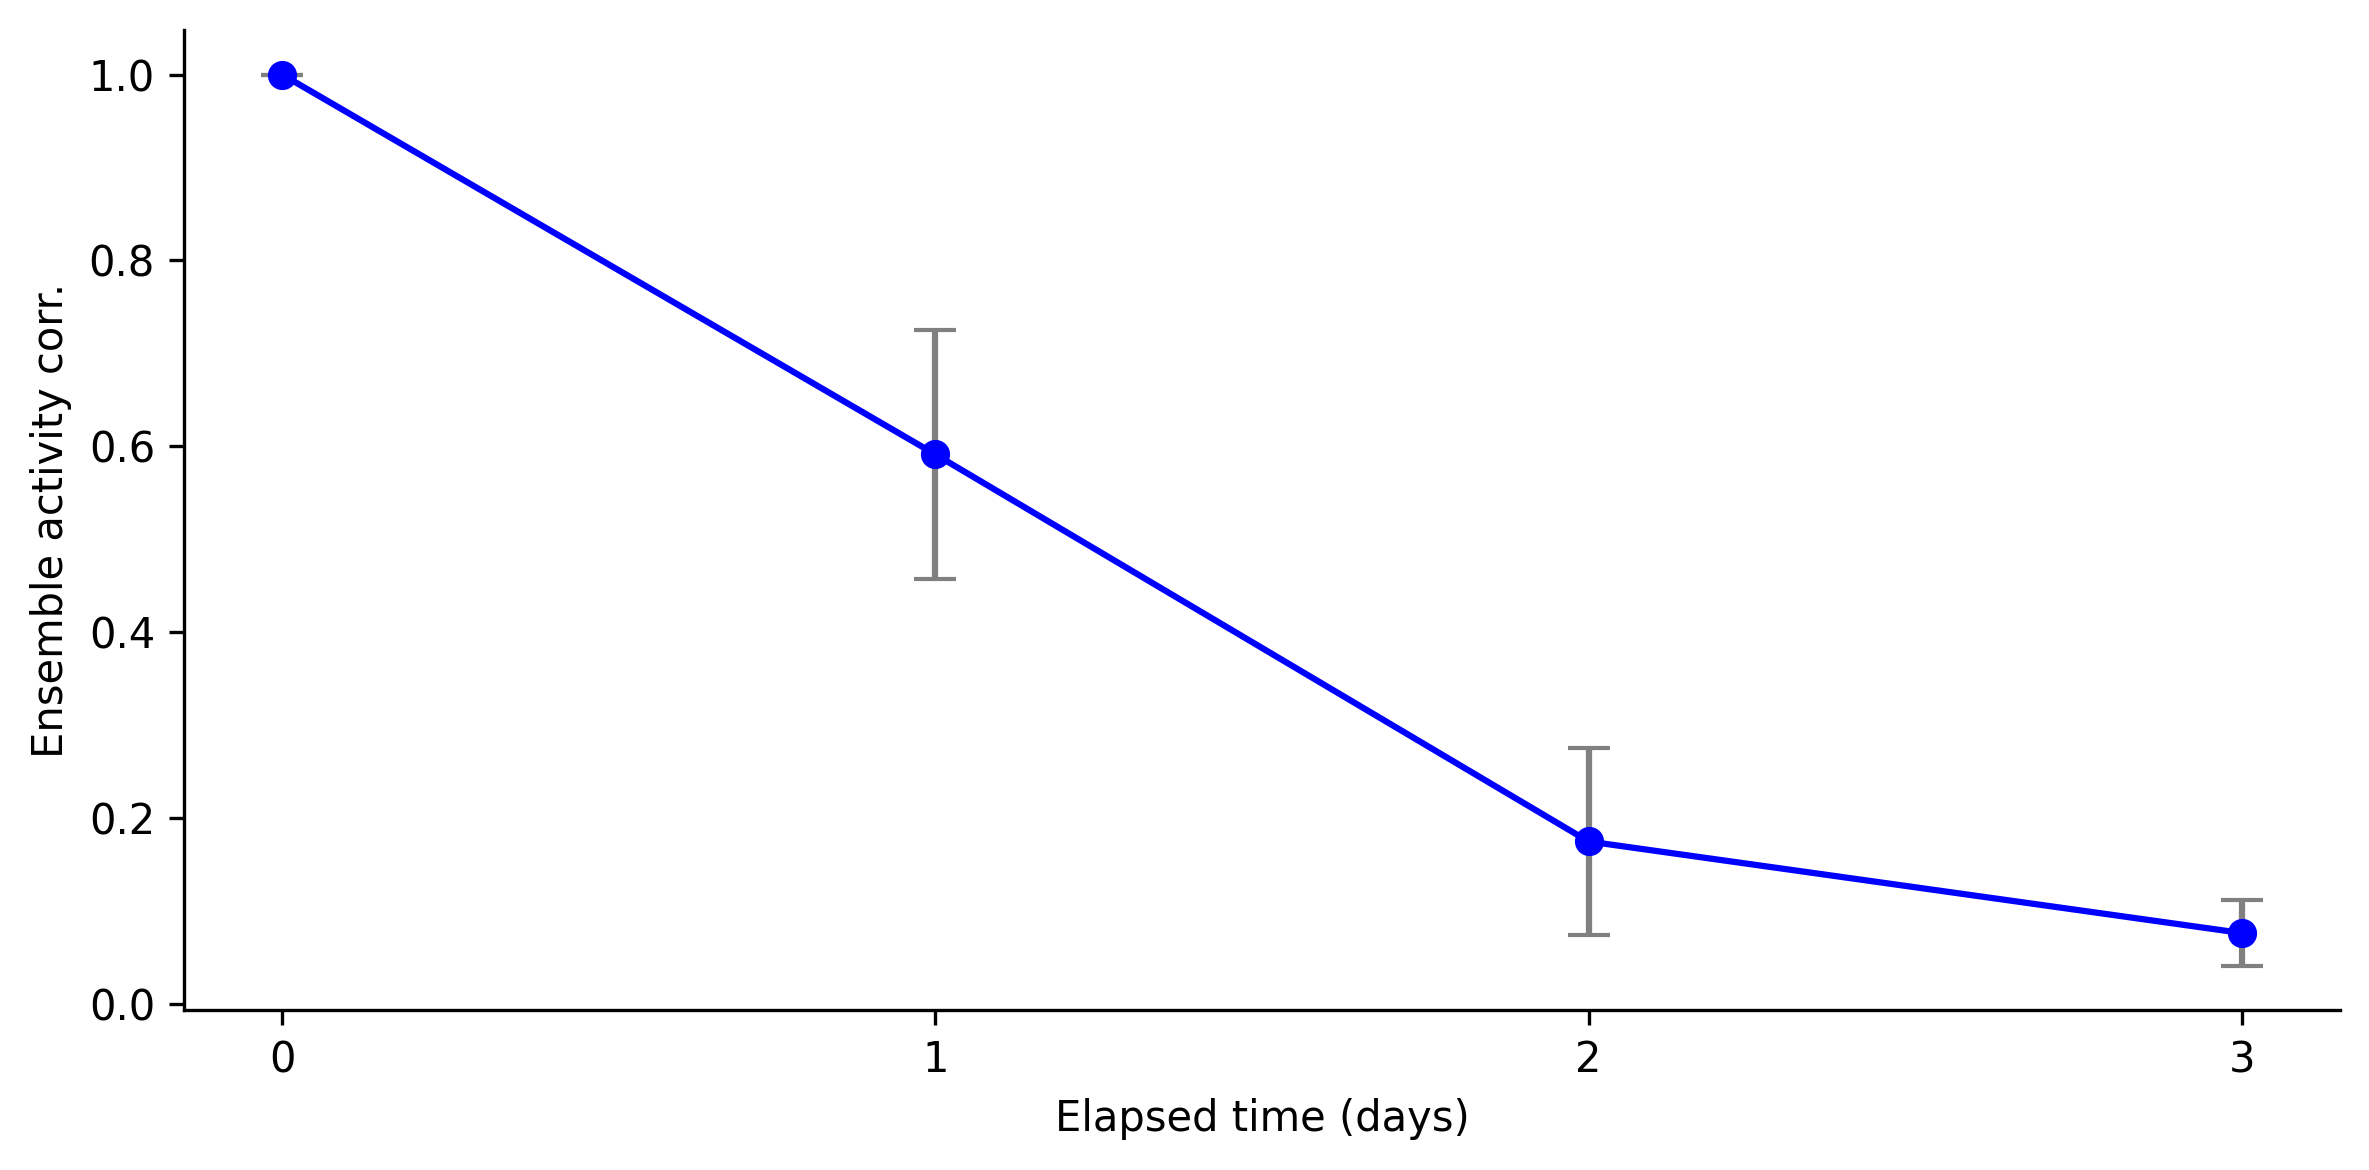
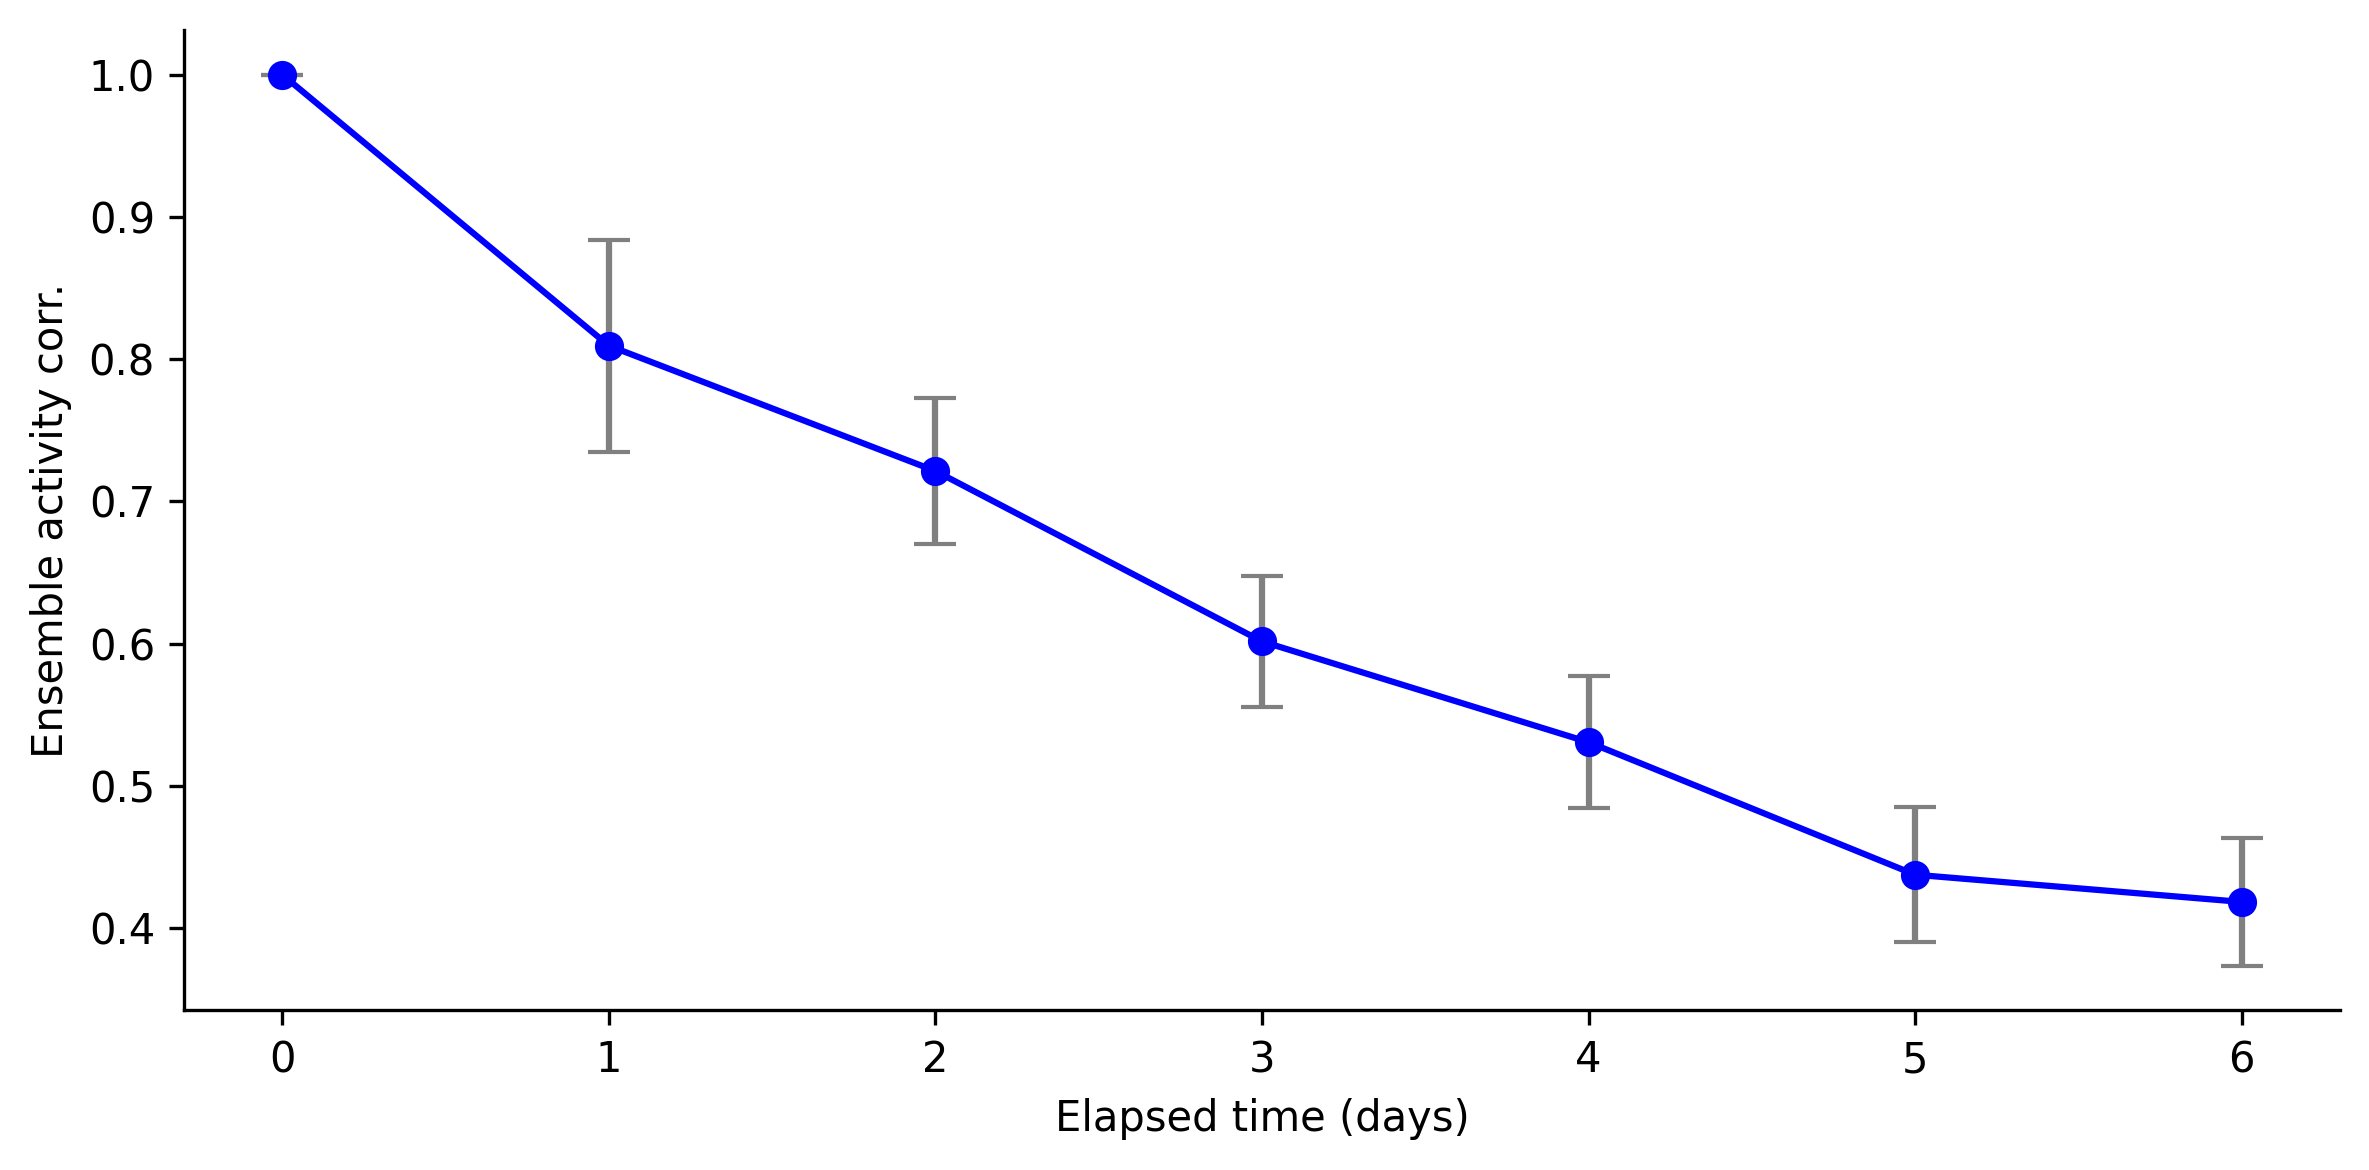
Minor updates to the drify rep simulation. Added two (E and I) populations for conrtex with slower learning rates.

diff --git a/HPC_ANArchy.py b/HPC_ANArchy.py
@@ -1,33 +1,36 @@
 import ANNarchy as ann
 import matplotlib.pyplot as plt
 import numpy as np
-import os
-from plaotting_widget import before_after_weights, plot_activity
-
+# import os
+from plotting_widget import before_after_weights, plot_activity,plot_activity_n_excitability_time
+from Utilities import generate_random_pattern
 HPC_LIneuron = ann.Neuron(
     parameters = dict(
-        tau = 10.0,
+        tau = 50.0,
         baseline = 0,
         I_ext = ann.Parameter(0.1),
-        excitabilty = 1.0,
+        excitability = 0.0,
     ),
     equations = [
-        'tau * dr/dt  + r = baseline + tanh(sum(exc) + sum(inh) + I_ext)'
+        'tau * dr/dt  + r = baseline + tanh(sum(target) + I_ext + excitability)'
     ]
 ) 
 
-HPC_E_synapse = ann.Synapse(
+E_synapse = ann.Synapse(
     parameters = dict(
         tau = 1,
         lr_e = 0.004,
         dr_e = ann.Parameter(0),
+        min_w = 0.0,
+        max_w = 10.0
     ),
     equations = [
-        'tau * dw/dt = -w * dr_e + lr_e*pre.r * post.r',
+        'tau * dw/dt = -w * dr_e + lr_e*pre.r * post.r : min = min_w, max = max_w',
     ]
 )
 
-HPC_I_synapse = ann.Synapse(
+
+I_synapse = ann.Synapse(
     parameters = dict(
         tau = 1,
         lr_i = 0.004,
@@ -40,60 +43,134 @@ HPC_I_synapse = ann.Synapse(
 
 NonPlastic_Synapse = ann.Synapse()
 
-# defining number of neurons in the networ
+# defining some params
+FAST_LR_E = 4e-3
+SLOW_LR_E = 4e-4
+
+
+
+# defining number of neurons in the network 
 num_HPC_E_neuron = 40
 num_HPC_I_neuron = 40
 
+num_CTX_E_neuron = 40
+num_CTX_I_neuron = 40
+
 # defining the network with excitatory and inhibitory populations
-HPC_network = ann.Network()
-HPC_E_pop = HPC_network.create(geometry=num_HPC_E_neuron, neuron=HPC_LIneuron, name='HPC_E_pop')
-HPC_I_pop = HPC_network.create(geometry=num_HPC_I_neuron, neuron=HPC_LIneuron, name='HPC_I_pop')
+Can_network = ann.Network()
+# HPC pops
+HPC_E_pop = Can_network.create(geometry=num_HPC_E_neuron, neuron=HPC_LIneuron, name='HPC_E_pop')
+HPC_I_pop = Can_network.create(geometry=num_HPC_I_neuron, neuron=HPC_LIneuron, name='HPC_I_pop')
 
-# dfining the synapses between excitatory and inhibitory populations, (EE, EI, IE, II), plastic are  EE, EI and II. considering II as static
-EE_proj = HPC_network.connect(HPC_E_pop,HPC_E_pop,'exc',HPC_E_synapse)
-EE_proj.connect_all_to_all(weights=0.0)
+# CTX pops
+CTX_E_pop = Can_network.create(geometry=num_CTX_E_neuron, neuron=HPC_LIneuron, name='CTX_E_pop')
+CTX_I_pop = Can_network.create(geometry=num_CTX_I_neuron, neuron=HPC_LIneuron, name='CTX_I_pop')
 
-EI_proj = HPC_network.connect(HPC_E_pop,HPC_I_pop,'exc',HPC_E_synapse)
-EI_proj.connect_all_to_all(weights=0.0)
+# defining the synapses between excitatory and inhibitory populations, (EE, EI, IE, II), plastic are  EE, EI and II. considering II as static
 
-IE_proj = HPC_network.connect(HPC_I_pop,HPC_E_pop,'inh',HPC_I_synapse)
-IE_proj.connect_all_to_all(weights=0.0)
+## HPC connections network Rec connections
 
-II_proj = HPC_network.connect(HPC_I_pop,HPC_I_pop,'inh',NonPlastic_Synapse)
-II_proj.connect_all_to_all(weights=-0.1)  # Uncomment if you want to initialize II_proj weights
-
-
-HPC_E_pop[:10].I_ext = np.array([1,-1,1,1,-1,-1,-1,1,1,1] ) # Set external input for first 10 neurons
-HPC_I_pop[:10].I_ext = 0.5*np.array([1,-1,1,1,-1,-1,-1,1,1,1])
+# according to complementary learning system (CLS), HPC is a fast learner for episodic memories
+HPC_EE_proj = Can_network.connect(HPC_E_pop,HPC_E_pop,'exc',E_synapse)
+HPC_EE_proj.connect_all_to_all(weights=0.0, allow_self_connections=True)  # Uncomment if you want to initialize HPC_EE_proj weights
 
 
-HPC_network.compile(clean=True)
+HPC_EI_proj = Can_network.connect(HPC_E_pop,HPC_I_pop,'exc',E_synapse)
+HPC_EI_proj.connect_all_to_all(weights=0.0)
+
+HPC_IE_proj = Can_network.connect(HPC_I_pop,HPC_E_pop,'inh',I_synapse)
+HPC_IE_proj.connect_all_to_all(weights=-0.1, allow_self_connections=True)
+
+HPC_II_proj = Can_network.connect(HPC_I_pop,HPC_I_pop,'inh',NonPlastic_Synapse)
+HPC_II_proj.connect_all_to_all(weights=-0.1, allow_self_connections=True)  # Uncomment if you want to initialize HPC_II_proj weights
 
 
-EE_initial_weights = EE_proj.connectivity_matrix()
-EI_initial_weights = EI_proj.connectivity_matrix()
-IE_initial_weights = IE_proj.connectivity_matrix()
-II_initial_weights = II_proj.connectivity_matrix()
+## CTX connections network Rec connections
+CTX_EE_proj = Can_network.connect(CTX_E_pop,CTX_E_pop,'exc',E_synapse)
+CTX_EE_proj.connect_all_to_all(weights=0.0, allow_self_connections=True)  # Uncomment if you want to initialize HPC_EE_proj weights
 
 
-HPC_E_act_monitor = HPC_network.monitor(HPC_E_pop,'r')
-HPC_I_act_monitor = HPC_network.monitor(HPC_I_pop,'r') 
-# w = HPC_network.monitor(EE_proj,'w')
+CTX_EI_proj = Can_network.connect(CTX_E_pop,CTX_I_pop,'exc',E_synapse)
+CTX_EI_proj.connect_all_to_all(weights=0.0)
 
-HPC_network.config(dt=0.01)
-HPC_network.simulate(10)
+CTX_IE_proj = Can_network.connect(CTX_I_pop,CTX_E_pop,'inh',I_synapse)
+CTX_IE_proj.connect_all_to_all(weights=-0.1, allow_self_connections=True)
+
+CTX_II_proj = Can_network.connect(CTX_I_pop,CTX_I_pop,'inh',NonPlastic_Synapse)
+CTX_II_proj.connect_all_to_all(weights=-0.1, allow_self_connections=True)  # Uncomment if you want to initialize HPC_II_proj weights
+
+
+
+# need to define input for each of the neurons in the population
+input_current = np.zeros(num_HPC_E_neuron)
+
+Can_network.compile(clean=True)
+
+# # according to complementary learning system (CLS) CTX is a slow learner but better at generalizing 
+# Hence need to change the learning rates for these synapses
+CTX_EE_proj.lr_e = SLOW_LR_E
+CTX_IE_proj.lr_i = SLOW_LR_E
+CTX_EI_proj.lr_e = SLOW_LR_E
+
+# Simulation
+# step 1: a burn in period of 10 time steps
+# step 2: Encoding single stimulus
+# step 3: rounds of consolidation (awake + sleep cycles?)
+# step 4: recall
+PAT_LEN = 10
+PATTERN_A = np.concat((generate_random_pattern(PAT_LEN),np.zeros(num_HPC_E_neuron-PAT_LEN)))
+breakpoint()
+HPC_E_pop[:].I_ext =  PATTERN_A# Set external input for first 10 neurons
+HPC_I_pop[:].I_ext = 0.5 * PATTERN_A
+CTX_E_pop[:].I_ext = PATTERN_A
+ 
+# variables to store weights 
+HPC_EE_W = []
+HPC_EI_W = []
+HPC_IE_W = []
+HPC_II_W = []
+
+CTX_EE_W = []
+CTX_EI_W = []
+CTX_IE_W = []
+CTX_II_W = []
+
+# setting up monitors to record the firing rates
+HPC_E_act_monitor = Can_network.monitor(HPC_E_pop,'r')
+HPC_I_act_monitor = Can_network.monitor(HPC_I_pop,'r') 
+CTX_E_act_monitor = Can_network.monitor(HPC_E_pop,'r')
+CTX_I_act_monitor = Can_network.monitor(HPC_I_pop,'r') 
+
+# w = Can_network.monitor(HPC_EE_proj,'w')
+
+Can_network.config(dt=0.01)
+Can_network.simulate(10)
 # breakpoint()
 
-EE_final_weights = EE_proj.connectivity_matrix()
-EI_final_weights = EI_proj.connectivity_matrix()
-IE_final_weights = IE_proj.connectivity_matrix()
-II_final_weights = II_proj.connectivity_matrix()
+HPC_EE_W.append(HPC_EE_proj.connectivity_matrix())
+HPC_EI_W.append(HPC_EI_proj.connectivity_matrix())
+HPC_IE_W.append(HPC_IE_proj.connectivity_matrix())
+HPC_II_W.append(HPC_II_proj.connectivity_matrix())
 
 
-plot_activity(HPC_E_act_monitor,'r',"HPC netowrk excitatory neuron activity", "./plots/HPC_E_activity.png")
-plot_activity(HPC_I_act_monitor,'r',"HPC netowrk inhibitory neuron activity", "./plots/HPC_E_activity.png")
+CTX_EE_W.append(CTX_EE_proj.connectivity_matrix())
+CTX_EI_W.append(CTX_EI_proj.connectivity_matrix())
+CTX_IE_W.append(CTX_IE_proj.connectivity_matrix())
+CTX_II_W.append(CTX_II_proj.connectivity_matrix())
 
-before_after_weights(EE_initial_weights, EE_final_weights, "Initial W_{EE}" ,"Final W_{EE}" ,"./plots/HPC_EE_weights.png")
-before_after_weights(EI_initial_weights, EI_final_weights, "Initial W_{EI}" ,"Final W_{EI}" ,"./plots/HPC_EI_weights.png")
-before_after_weights(IE_initial_weights, IE_final_weights, "Initial W_{IE}" ,"Final W_{IE}" ,"./plots/HPC_IE_weights.png")
-before_after_weights(II_initial_weights, II_final_weights, "Initial W_{II}" ,"Final W_{II}" ,"./plots/HPC_II_weights.png")
+HPC_e_Act = HPC_E_act_monitor.get('r')
+HPC_i_Act = HPC_I_act_monitor.get('r')
+
+CTX_e_Act = CTX_E_act_monitor.get('r')
+CTX_i_Act = CTX_I_act_monitor.get('r')
+
+plot_activity_n_excitability_time([HPC_e_Act,CTX_e_Act],["HPC E F.R.","CTX E F.R."],fname="./plots/Sys_cons/E_activities.png",cmaps=['Blues', 'Greens'])
+plot_activity_n_excitability_time([HPC_i_Act,CTX_i_Act],["HPC I F.R.","CTX E I.R."],fname="./plots/Sys_cons/I_activities.png",cmaps=['Blues', 'Greens'])
+
+# plot_activity(hpc_e_Act,"","HPC netowrk excitatory neuron activity", "./plots/HPC_E_activity.png",c='red')
+# plot_activity(hpc_i_Act,"","HPC netowrk inhibitory neuron activity", "./plots/HPC_E_activity.png",c='blue')
+
+# before_after_weights(EE_initial_weights, HPC_EE_W, "Initial W_{EE}" ,"Final W_{EE}" ,"./plots/HPC_EE_weights.png")
+# before_after_weights(EI_initial_weights, HPC_EI_W, "Initial W_{EI}" ,"Final W_{EI}" ,"./plots/HPC_EI_weights.png")
+# before_after_weights(IE_initial_weights, HPC_IE_W, "Initial W_{IE}" ,"Final W_{IE}" ,"./plots/HPC_IE_weights.png")
+# before_after_weights(II_initial_weights, HPC_II_W, "Initial W_{II}" ,"Final W_{II}" ,"./plots/HPC_II_weights.png")

diff --git a/Get_Drifty.py b/Get_Drifty.py
@@ -1,7 +1,7 @@
 import ANNarchy as ann
 import matplotlib.pyplot as plt
 import numpy as np
-from plaotting_widget import plot_activity_n_excitability_time,plot_weights_over_time,plot_row_correlations,plot_consecutive_day_correlation
+from plotting_widget import plot_activity_n_excitability_time,plot_weights_over_time,plot_row_correlations,plot_consecutive_day_correlation
 
 
 LIneuron = ann.Neuron(
@@ -27,17 +27,18 @@ LIneuron = ann.Neuron(
 E_synapse = ann.Synapse(
     parameters = dict(
         tau_w = 1000,
+        lr = 1,
         tau_decay = 1000,
         max_weight = 0.4,
         min_weight = 0.0,
     ),
     equations = [
-        'dw/dt = ((pre.r * post.r)/tau_w - w/tau_decay) : min = min_weight, max = max_weight'
+        'dw/dt = (lr*(pre.r * post.r)/tau_w - w/tau_decay) : min = min_weight, max = max_weight'
         # 'Bounded(x) = np.clip(x, 0, 1)'
     ]
 )
 
-num_HPC_E_neuron = 50
+num_HPC_E_neuron = 70
 
 net = ann.Network()
 E_pop = net.create(geometry=num_HPC_E_neuron, neuron=LIneuron, name='E_pop')
@@ -51,18 +52,18 @@ net.compile(clean=True)
 
 # Simulation parameters
 Nrep = 10 # number of repetitions
-T = 100 # duration of repetitions
+T = 200 # duration of repetitions
 IR = 100 # Inter-repetition interval
 del_t = 1 # time step
 
 
-num_days = 4 # number of days in the simulation
+num_days = 7 # number of days in the simulation
 ID = 1000 #inter-day delay
 
-delta = 35 # input current
+delta = 50 # input current
 theta = 5 #threshold firing rate for active neurons
 c = 1 #cap pn recurrent weights
-E = 3 # excitability increase factor for neurons
+E = 2 # excitability increase factor for neurons
 thr = 1
 # normal distribution parameters for excitability
 mu = 0
@@ -78,6 +79,7 @@ weights = []
 # weights.append(EE_proj.connectivity_matrix())
 net.simulate(ID//2)
 # E_pop[:].excitabilty = np.array([0]*num_HPC_E_neuron)
+np.random.seed(2025)
 orig_exitability = np.abs(np.random.uniform(mu, sigma, num_HPC_E_neuron))
 np.random.seed(2)
 E_pop[:].excitabilty = orig_exitability
@@ -87,14 +89,18 @@ for i in range(num_days):
     for j in range(Nrep):
         seed = j
         # setting a random seed
-        np.random.default_rng(j)
+        # np.random.default_rng(j)
         # stim_phase 
         # input is set for all neurons in the population
         E_pop[:].input_i = np.array(num_HPC_E_neuron*[delta])
         # exitability is drawn from a uniform distri
         # now based on day the exicitability is increased by a factor of E for some neurons
         E_pop[:].excitabilty = orig_exitability
-        E_pop[(i+1)*10:(i+1)*10+10].excitabilty += E
+        E_pop[(i)*10:(i)*10+10].excitabilty += E
+        # if i == 2:
+        #     EE_proj.lr = 0
+        # else:
+        #     EE_proj.lr = 1
         # run the simulation for T seconds
         net.simulate(T)
         # print(E_pop[1].r)
@@ -104,6 +110,7 @@ for i in range(num_days):
         # excitability remains elevated for the same neurons
         net.simulate(IR)
         activity_vector[i].append(E_pop[:].r)
+        # breakpoint()
     activity_vector[i] = np.array(activity_vector[i])
     net.simulate(ID)
     weights.append(EE_proj.connectivity_matrix())
@@ -133,5 +140,6 @@ plot_weights_over_time(weights,
                        titles=[f'Day {i+1}' for i in range(len(weights))],
                        fname="./plots/E_%s/delamare_2024_F1C.png"%E_name,
                        cmaps='gray_r')
-plot_row_correlations(np.array(activity_vector), fname="./plots/E_%s/delamare_2024_F2A.png"%E_name)
+plot_row_correlations(np.array(activity_vector), fname="./plots/E_%s/encoding_corr.png"%E_name, use_bar_plot=True)
+plot_row_correlations(np.array(activity_vector), fname="./plots/E_%s/Recall_corr.png"%E_name, ref_index=-1, use_bar_plot=True)
 plot_consecutive_day_correlation(np.array(activity_vector), fname="./plots/E_%s/dayN_N_1_corr.png"%E_name)

diff --git a/plotting_widget.py b/plotting_widget.py
@@ -37,7 +37,7 @@ def save_plot(filename):
     plt.tight_layout()
     plt.savefig(filename, bbox_inches='tight', dpi=300)
 
-def before_after_weights(initial_weights, final_weights,title1,title2,fname,cmaps = 'hot'):
+def before_after_weights(initial_weights, final_weights,title1,title2,fname,cmaps = 'gray_r'):
     plt.figure(figsize=(10, 5))
     plt.subplot(121)
     plt.title(r'$%s$'% title1)
@@ -140,7 +140,7 @@ def plot_activity_n_excitability_time(weights, titles, fname, cmaps='hot',title_
     plt.tight_layout()
     save_plot(fname)
     plt.show()
-def plot_row_correlations(data_3d, fname):
+def plot_row_correlations(data_3d, fname,ref_index=0, use_bar_plot=False,font_size=14, tick_fontsize=14):
     """
     Plots the correlation between the reference row and all other rows in the matrix.
     
@@ -156,27 +156,40 @@ def plot_row_correlations(data_3d, fname):
     for day in range(days):
         rep_correlations = []
         for rep in range(reps):
-            corr = np.corrcoef(data_3d[0, rep], data_3d[day, rep])[0, 1]
+            corr = np.corrcoef(data_3d[ref_index, rep], data_3d[day, rep])[0, 1]
             rep_correlations.append(corr)
         mean_correlations.append(np.mean(rep_correlations))
         std_correlations.append(np.std(rep_correlations))
 
     # Plot
     fig,ax  = plt.subplots(figsize=(8, 4))
-    plt.errorbar(
-        x=range(days),
-        y=mean_correlations,
-        yerr=std_correlations,
-        fmt='-o',
-        capsize=5,
-        ecolor='gray',
-        color='blue'
-    )
+    if use_bar_plot:
+        ax.bar(
+            x=range(days),
+            height=mean_correlations,
+            yerr=std_correlations,
+            capsize=5,
+            color='blue',
+            alpha=0.7,
+            edgecolor='black'
+        )
+    else:
+        plt.errorbar(
+            x=range(days),
+            y=mean_correlations,
+            yerr=std_correlations,
+            fmt='-o',
+            capsize=5,
+            ecolor='gray',
+            color='blue'
+        )
     ax.spines[["right", "top"]].set_visible(False)
     # plt.title("Neuron Correlation with Day 0 Over Days")
-    plt.xlabel("Elapsed time (days)")
-    plt.ylabel("Ensemble activity corr.")
+    plt.xlabel("Elapsed time (days)",fontsize =font_size)
+    plt.ylabel("Ensemble activity corr.",fontsize =font_size)
     plt.xticks(range(days))
+    ax.tick_params(labelsize=tick_fontsize)
+
     # plt.ylim(-1, 1)
     plt.tight_layout()
     save_plot(fname)

diff --git a/Basic_model.py b/Basic_model.py
@@ -93,3 +93,4 @@ plt.legend([f'Neuron {i}' for i in range(num_neurons)])
 # plt.grid()
 plt.show()
 # The code defines a rate network model, simulates its behavior over time, and visualizes the outputs of the neurons.
+

diff --git a/Utilities.py b/Utilities.py
@@ -1,0 +1,5 @@
+import numpy as np
+
+def generate_random_pattern(length,seed = 2025):
+    np.random.seed(seed)
+    return np.random.choice([1, -1], size=length)
